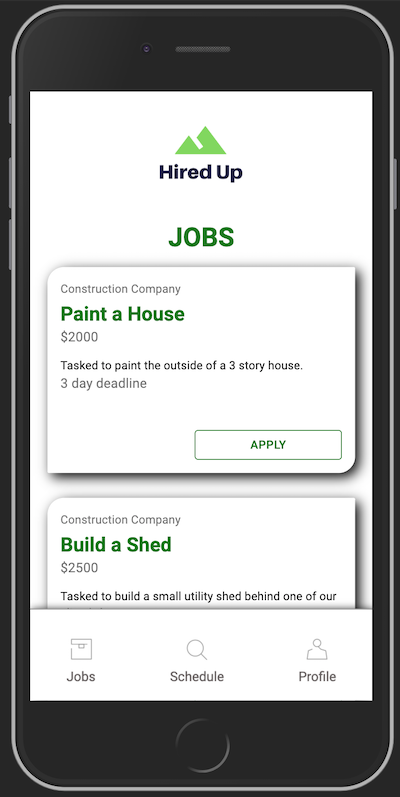
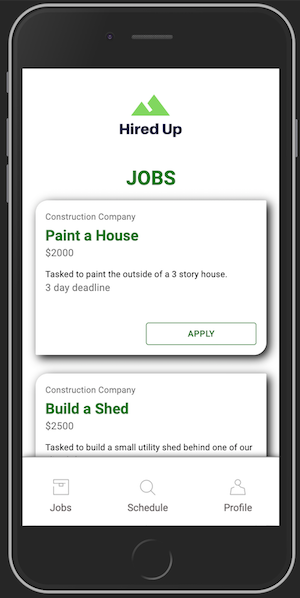
Edit readme, photo sizes and add comments

diff --git a/client/src/App.js b/client/src/App.js
@@ -8,25 +8,25 @@ import Schedule from "./components/Schedule/index";
 import Unverified from "./components/Profile/Unverified";
 import Verified from './components/Profile/Verified';
 import VerifiedJobs from './components/Joblistings/index'
-
-function App() {
-  return (
-    <div className="App">
-      <Router>
-        <Nav />
-        <Switch>
-          <Route path="/login" component={Login} />
-          <Route path="/signup" component={Signup} />
-          <Route path="/" component={Joblistings} />
-          <Route path="/jobs" component={VerifiedJobs} />
-          <Route path="/schedule" component={Schedule} />
-          <Route path="/profile/Unverified" exact component={Unverified} />
-          <Route path="/profile/Verified" exact component={Verified} />
-        </Switch>
-        <Footer />
-      </Router>
-    </div>
-  );
-}
+//Using index because of redux app.js not in use right now
+// function App() {
+//   return (
+//     <div className="App">
+//       <Router>
+//         <Nav />
+//         <Switch>
+//           <Route path="/login" component={Login} />
+//           <Route path="/signup" component={Signup} />
+//           <Route path="/" component={Joblistings} />
+//           <Route path="/jobs" component={VerifiedJobs} />
+//           <Route path="/schedule" component={Schedule} />
+//           <Route path="/profile/Unverified" exact component={Unverified} />
+//           <Route path="/profile/Verified" exact component={Verified} />
+//         </Switch>
+//         <Footer />
+//       </Router>
+//     </div>
+//   );
+// }
 
 export default App;

diff --git a/client/src/components/Login/index.js b/client/src/components/Login/index.js
@@ -12,9 +12,10 @@ import Container from '@material-ui/core/Container';
 import logo from '../../assets/images/logo.png'
 
 const Login = () => {
+  //Set username and password in state to send back to server
   const [email, setEmail] = useState();
   const [password, setPassword] = useState();
-
+ //On submit post username and password to server
   const handleForm = () => {
     axios.post("/register", {
       username: email,
@@ -22,7 +23,7 @@ const Login = () => {
     });
   };
 
-
+ //Create classes for styling material ui components
   const useStyles = makeStyles(theme => ({
     '@global': {
       body: {
@@ -45,6 +46,7 @@ const Login = () => {
     },
 
   }));
+  //makes styles into classes
   const classes = useStyles();
   return (
     <Container component="main" maxWidth="xs">
@@ -54,7 +56,7 @@ const Login = () => {
         <Typography component="h1" variant="h5">
           LOGIN
             </Typography >
-
+        {/* Form for login */}
         <form className={classes.form} noValidate>
           <Grid container spacing={2}>
             <Grid item xs={12} >
@@ -93,6 +95,7 @@ const Login = () => {
             >
               Login
                 </Button>
+                {/* Link to google sign in */}
             <Button color="secondary"
               variant="contained"
               className={classes.submit}

diff --git a/client/src/components/Joblistings/index.js b/client/src/components/Joblistings/index.js
@@ -9,6 +9,7 @@ import Typography from '@material-ui/core/Typography';
 import logo from '../../assets/images/logo.png';
 import Nav from '../Nav'
 
+//Create styles classes for styling material ui components
 const useStyles = makeStyles(theme => ({
   card: {
     maxWidth: 382,
@@ -28,6 +29,7 @@ const useStyles = makeStyles(theme => ({
   },
 }));
 
+//Component for showing available jobs
 function JoblistingsVerified() {
   const classes = useStyles();
   return (
@@ -35,6 +37,7 @@ function JoblistingsVerified() {
       <img src={logo} alt="logo" className="logo" />
       <h1 className="text-center mt-5 mb-5 title">JOBS</h1>
       <Nav />
+      {/* Material ui card components */}
       <Card className={classes.card, "card-border"}>
         <CardContent>
           <Typography className={classes.title} color="textSecondary" gutterBottom>

diff --git a/server/job/job.js b/server/job/job.js
@@ -1,6 +1,7 @@
 const router = require("express").Router()
 const Job = require("../../models/job.model");
 
+// show all jobs
 router.get("/", (req,res) => {
     Job.find({}, (err, result) => {
         if(err) res.json(err);
@@ -8,18 +9,21 @@ router.get("/", (req,res) => {
     })
 })
 
+// create new job
 router.post("/new", (req,res) => {
     Job.create(req.body)
     .then(data => res.json(data))
     .catch(err => res.status(500).json(err));
 })
 
+// update a job with id
 router.put("/:id", (req, res) => {
     Job.update(req.body, {_id: req.params.id})
     .then(data => res.json(data))
     .catch(err => res.status(500).json(err));
 })
 
+// delete a job based on id
 router.delete("/:id", (req, res) => {
     Job.remove({_id: req.params.id})
     .then(() => res.send("Deleted"))

diff --git a/client/src/components/Schedule/index.js b/client/src/components/Schedule/index.js
@@ -27,22 +27,22 @@ function Schedule() {
 
     const [selectedDate, setSelectedDate] = React.useState(new Date('2019-11-15T09:00:00'));
     const [open, setOpen] = React.useState(false);
-
+    //When date is selected on calendar
     const handleDateChange = date => {
         setSelectedDate(date);
 
         console.log(date)
     };
-
+    //When the calendar is opened
     const handleOpen = () => {
         setOpen(true);
     };
 
-
+    //When the calendar is closed
     const handleClose = () => {
         setOpen(false);
     };
-
+    //Close the modal
     const handleRedirect = () => {
         handleClose()
         window.location = '/';

diff --git a/models/user.model.js b/models/user.model.js
@@ -3,7 +3,7 @@ const passportLocalMongoose = require("passport-local-mongoose");
 const findOrCreate = require("mongoose-findorcreate");
 
 const Schema = mongoose.Schema;
-
+// create user schema
 const userSchema = new Schema({
   username: {
     type: String,
@@ -13,10 +13,11 @@ const userSchema = new Schema({
   },
   googleId: String
 });
-
+// use passport with mongoose
 userSchema.plugin(passportLocalMongoose);
+// use findorcreate
 userSchema.plugin(findOrCreate);
-
+// create user model
 const User = mongoose.model("user", userSchema);
-
+// export user model
 module.exports = User;

diff --git a/client/src/components/Profile/Verified.js b/client/src/components/Profile/Verified.js
@@ -11,7 +11,7 @@ import Button from '@material-ui/core/Button';
 import ListItemText from '@material-ui/core/ListItemText';
 import Nav from '../Nav'
 
-
+// Create classes with styles for material ui
 const useStyles = makeStyles({
   avatar: {
     width: 150,
@@ -42,6 +42,7 @@ const useStyles = makeStyles({
 
 });
 
+//component for once user has been verified
 function Verified() {
   const classes = useStyles();
   const [value, setValue] = React.useState(0);

diff --git a/models/job.model.js b/models/job.model.js
@@ -1,7 +1,7 @@
 const mongoose = require("mongoose");
-
+// set variable Schema to equal mongoose schema
 const Schema = mongoose.Schema;
-
+// create mongoose schema for jobs
 const jobSchema = new Schema({
   title: {
     type: String,
@@ -23,7 +23,7 @@ const jobSchema = new Schema({
     required: "There has to be a payment amount"
   }
 });
-
+// create job model
 const Job = mongoose.model("job", jobSchema);
-
+// export Job model
 module.exports = Job;

diff --git a/client/src/components/Register/index.js b/client/src/components/Register/index.js
@@ -42,7 +42,7 @@ export default function Signup() {
         <Typography component="h1" variant="h5">
           SIGN UP
             </Typography >
-
+        {/* Foorm to signup */}
         <form className={classes.form} noValidate>
           <Grid container spacing={2}>
             <Grid item xs={12} sm={6}>

diff --git a/client/src/components/Joblistings/Joblistings.js b/client/src/components/Joblistings/Joblistings.js
@@ -6,6 +6,7 @@ import Typography from '@material-ui/core/Typography';
 import { makeStyles } from "@material-ui/core/styles";
 import Nav from '../Nav'
 
+//create classes for styling material ui components
 const useStyles = makeStyles({
   unverified: {
     margin: 25,

diff --git a/server/register/register.js b/server/register/register.js
@@ -2,7 +2,7 @@ const router = require("express").Router();
 const User = require("../../models/user.model");
 const passport = require("passport");
 
-
+// create new user
 router.post("/", (req, res) => {
   User.register(
     { username: req.body.username },

diff --git a/client/src/components/Profile/Unverified.js b/client/src/components/Profile/Unverified.js
@@ -11,7 +11,7 @@ import Button from '@material-ui/core/Button';
 import ListItemText from '@material-ui/core/ListItemText';
 import Nav from '../Nav'
 
-
+//Set styles for material ui components
 const useStyles = makeStyles({
   avatar: {
     width: 150,
